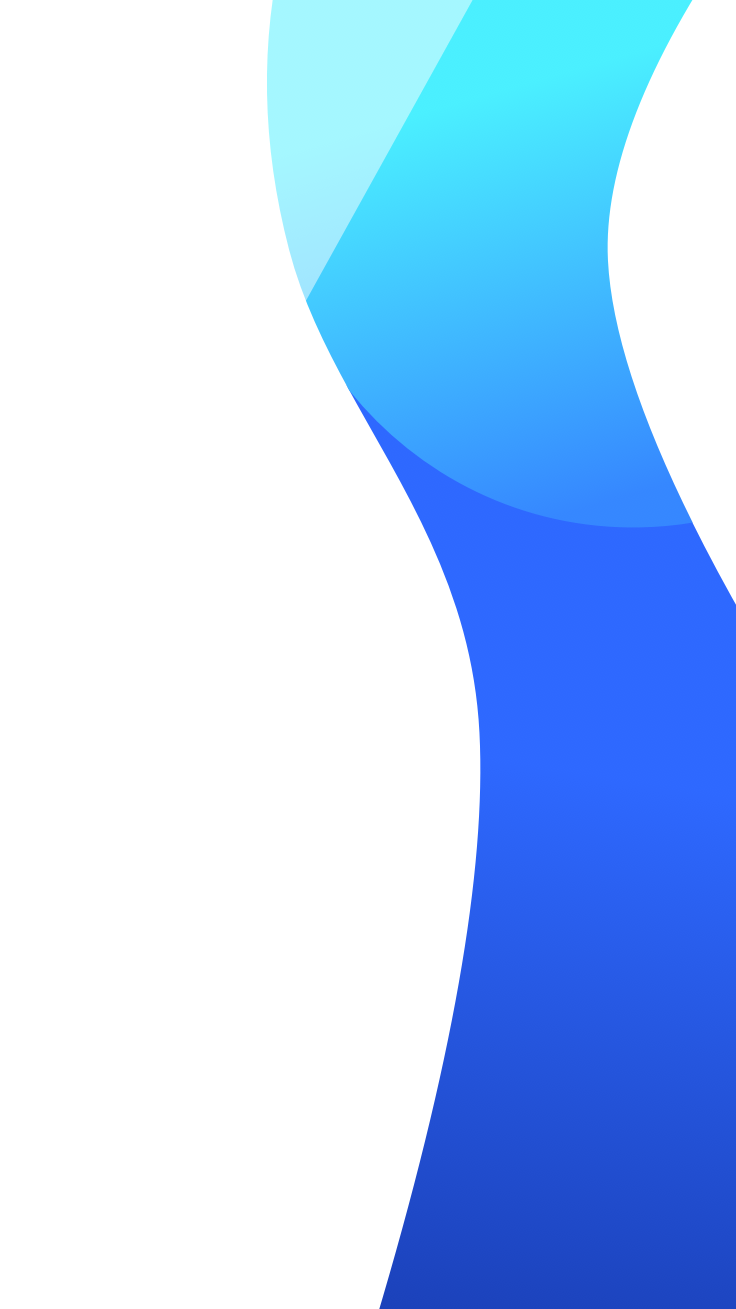
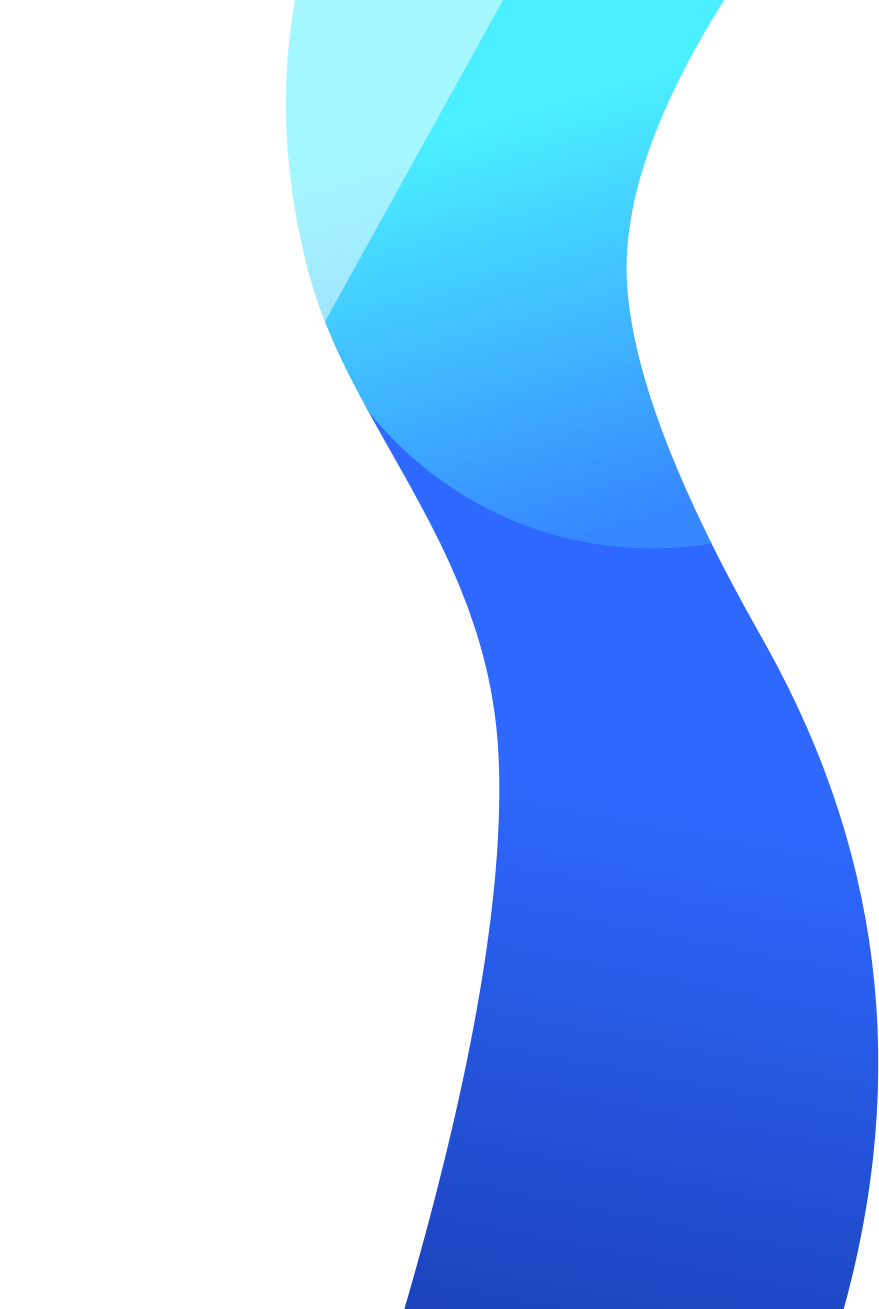
change directory structure of store

Changed region(s): [[0.3125, 0.0, 1.0, 1.0], [0.9375, 0.8556, 1.0, 1.0]]

diff --git a/src/pages/Login.js b/src/pages/Login.js
@@ -30,29 +30,36 @@ const responseGoogle = (response) => {
 
 const Login = () => {
     return (
-        <div className="container text-center">
-            <img className="title" src={require("img/matcha.png")} alt="logo"/>
-            <p className="subtitle">네 입 맛 에 <span className="white">맛 챠</span> 줄 게</p>
-            <FacebookLogin
-                appId="1087520368071444" // jaeyoon
-                fields="name, email"
-                textButton="페이스북으로 로그인"
-                xfbml={true}
-                cookie={true}
-                version="3.1"
-                cssClass="button facebook"
-                icon={<FontAwesomeIcon icon={faFacebookF} />}
-                callback={responseFacebook} />
-            <GoogleLogin
-                clientId={'563311872927-e2igmlvdlkcglr51go0ev763rrqifhvd.apps.googleusercontent.com'}
-                className="button google"
-                onSuccess={responseGoogle}
-                onFailure={responseGoogle}
-            >
-                <FontAwesomeIcon icon={faGoogle} />
-                <span>구글로 로그인</span>
-            </GoogleLogin>
+        <div className="wrapper flex flex-column justify-center" 
+             style={{backgroundImage: "url('" + require('img/bg-pattern.png') + "')"}}>
+            <div className="container text-center">
+                <img className="title" src={require("img/matcha.png")} alt="logo"/>
+                <p className="subtitle">네 입 맛 에 <span className="white">맛 챠</span> 줄 게</p>
+
+                <FacebookLogin
+                    appId="1087520368071444" // jaeyoon
+                    fields="name, email"
+                    textButton="페이스북으로 로그인"
+                    xfbml={true}
+                    cookie={true}
+                    version="3.1"
+                    cssClass="button facebook"
+                    icon={<FontAwesomeIcon icon={faFacebookF} />}
+                    callback={responseFacebook} />
+                <br/>
+                <GoogleLogin
+                    clientId={'563311872927-e2igmlvdlkcglr51go0ev763rrqifhvd.apps.googleusercontent.com'}
+                    className="button google"
+                    onSuccess={responseGoogle}
+                    onFailure={responseGoogle}
+                >
+                    <FontAwesomeIcon icon={faGoogle} />
+                    <span>구글로 로그인</span>
+                </GoogleLogin>
+
+            </div>
         </div>
+        
     );
 };
 

diff --git a/src/styles/scss/_login.scss b/src/styles/scss/_login.scss
@@ -1,9 +1,17 @@
+.wrapper {
+    height: 100vh;
+    background: center top no-repeat #fff;
+    background-size: auto 110%;
+}
 .title {
     width: 256px;
     max-width: 100%;
 }
 .subtitle {
-    letter-spacing: 27px;
+    font-size: .9rem;
+    letter-spacing: .5rem;
+    color: $grey-9;
+    margin-bottom: 3rem;
 }
 .button {
     display: inline-block;
@@ -18,7 +26,7 @@
     font-size: .9rem;
     font-weight: 600;
     &.facebook {
-        background-color: #4c69ba;
+        background-color: #39539c; // #4c69ba;
         margin-bottom: 1rem;
     }
     &.google {

diff --git a/src/pages/Home.js b/src/pages/Home.js
@@ -41,12 +41,12 @@ class Home extends Component {
 
     render() {
         const { restaurants } = this.state;
-        const logged = localStorage.getItem('isLogged');
+        const logged = JSON.parse(localStorage.getItem('isLogged') || false);
 
         return (
             <div>
                 {
-                    !logged && <Redirect to="/login"/>
+                    !logged && <Redirect to="/login" />
                 }
                 <div className="bar">
                     <img src={require("img/matcha-white.png")} alt="logo"/>

diff --git a/src/lib/auth.js b/src/lib/auth.js
@@ -1,0 +1,15 @@
+import axios from 'axios';
+
+const serverAPI = "http://localhost:1323/";
+
+export const socialLogin = ({provider, accessToken}) => axios.post(serverAPI + "login", {
+    provider,
+    accessToken
+});
+
+export const socialRegister = ({provider, id, name, email}) => axios.post(serverAPI + "", {
+    name,
+    email,
+    provider,
+    id
+});

diff --git a/src/styles/scss/_common.scss b/src/styles/scss/_common.scss
@@ -68,7 +68,7 @@ small { font-size: 75%; }
   background-color: map-get($red, "6");
 }
 .white {
-  color: $bg-color;
+  color: #fff;
 }
   
 /* ==========================================================================
